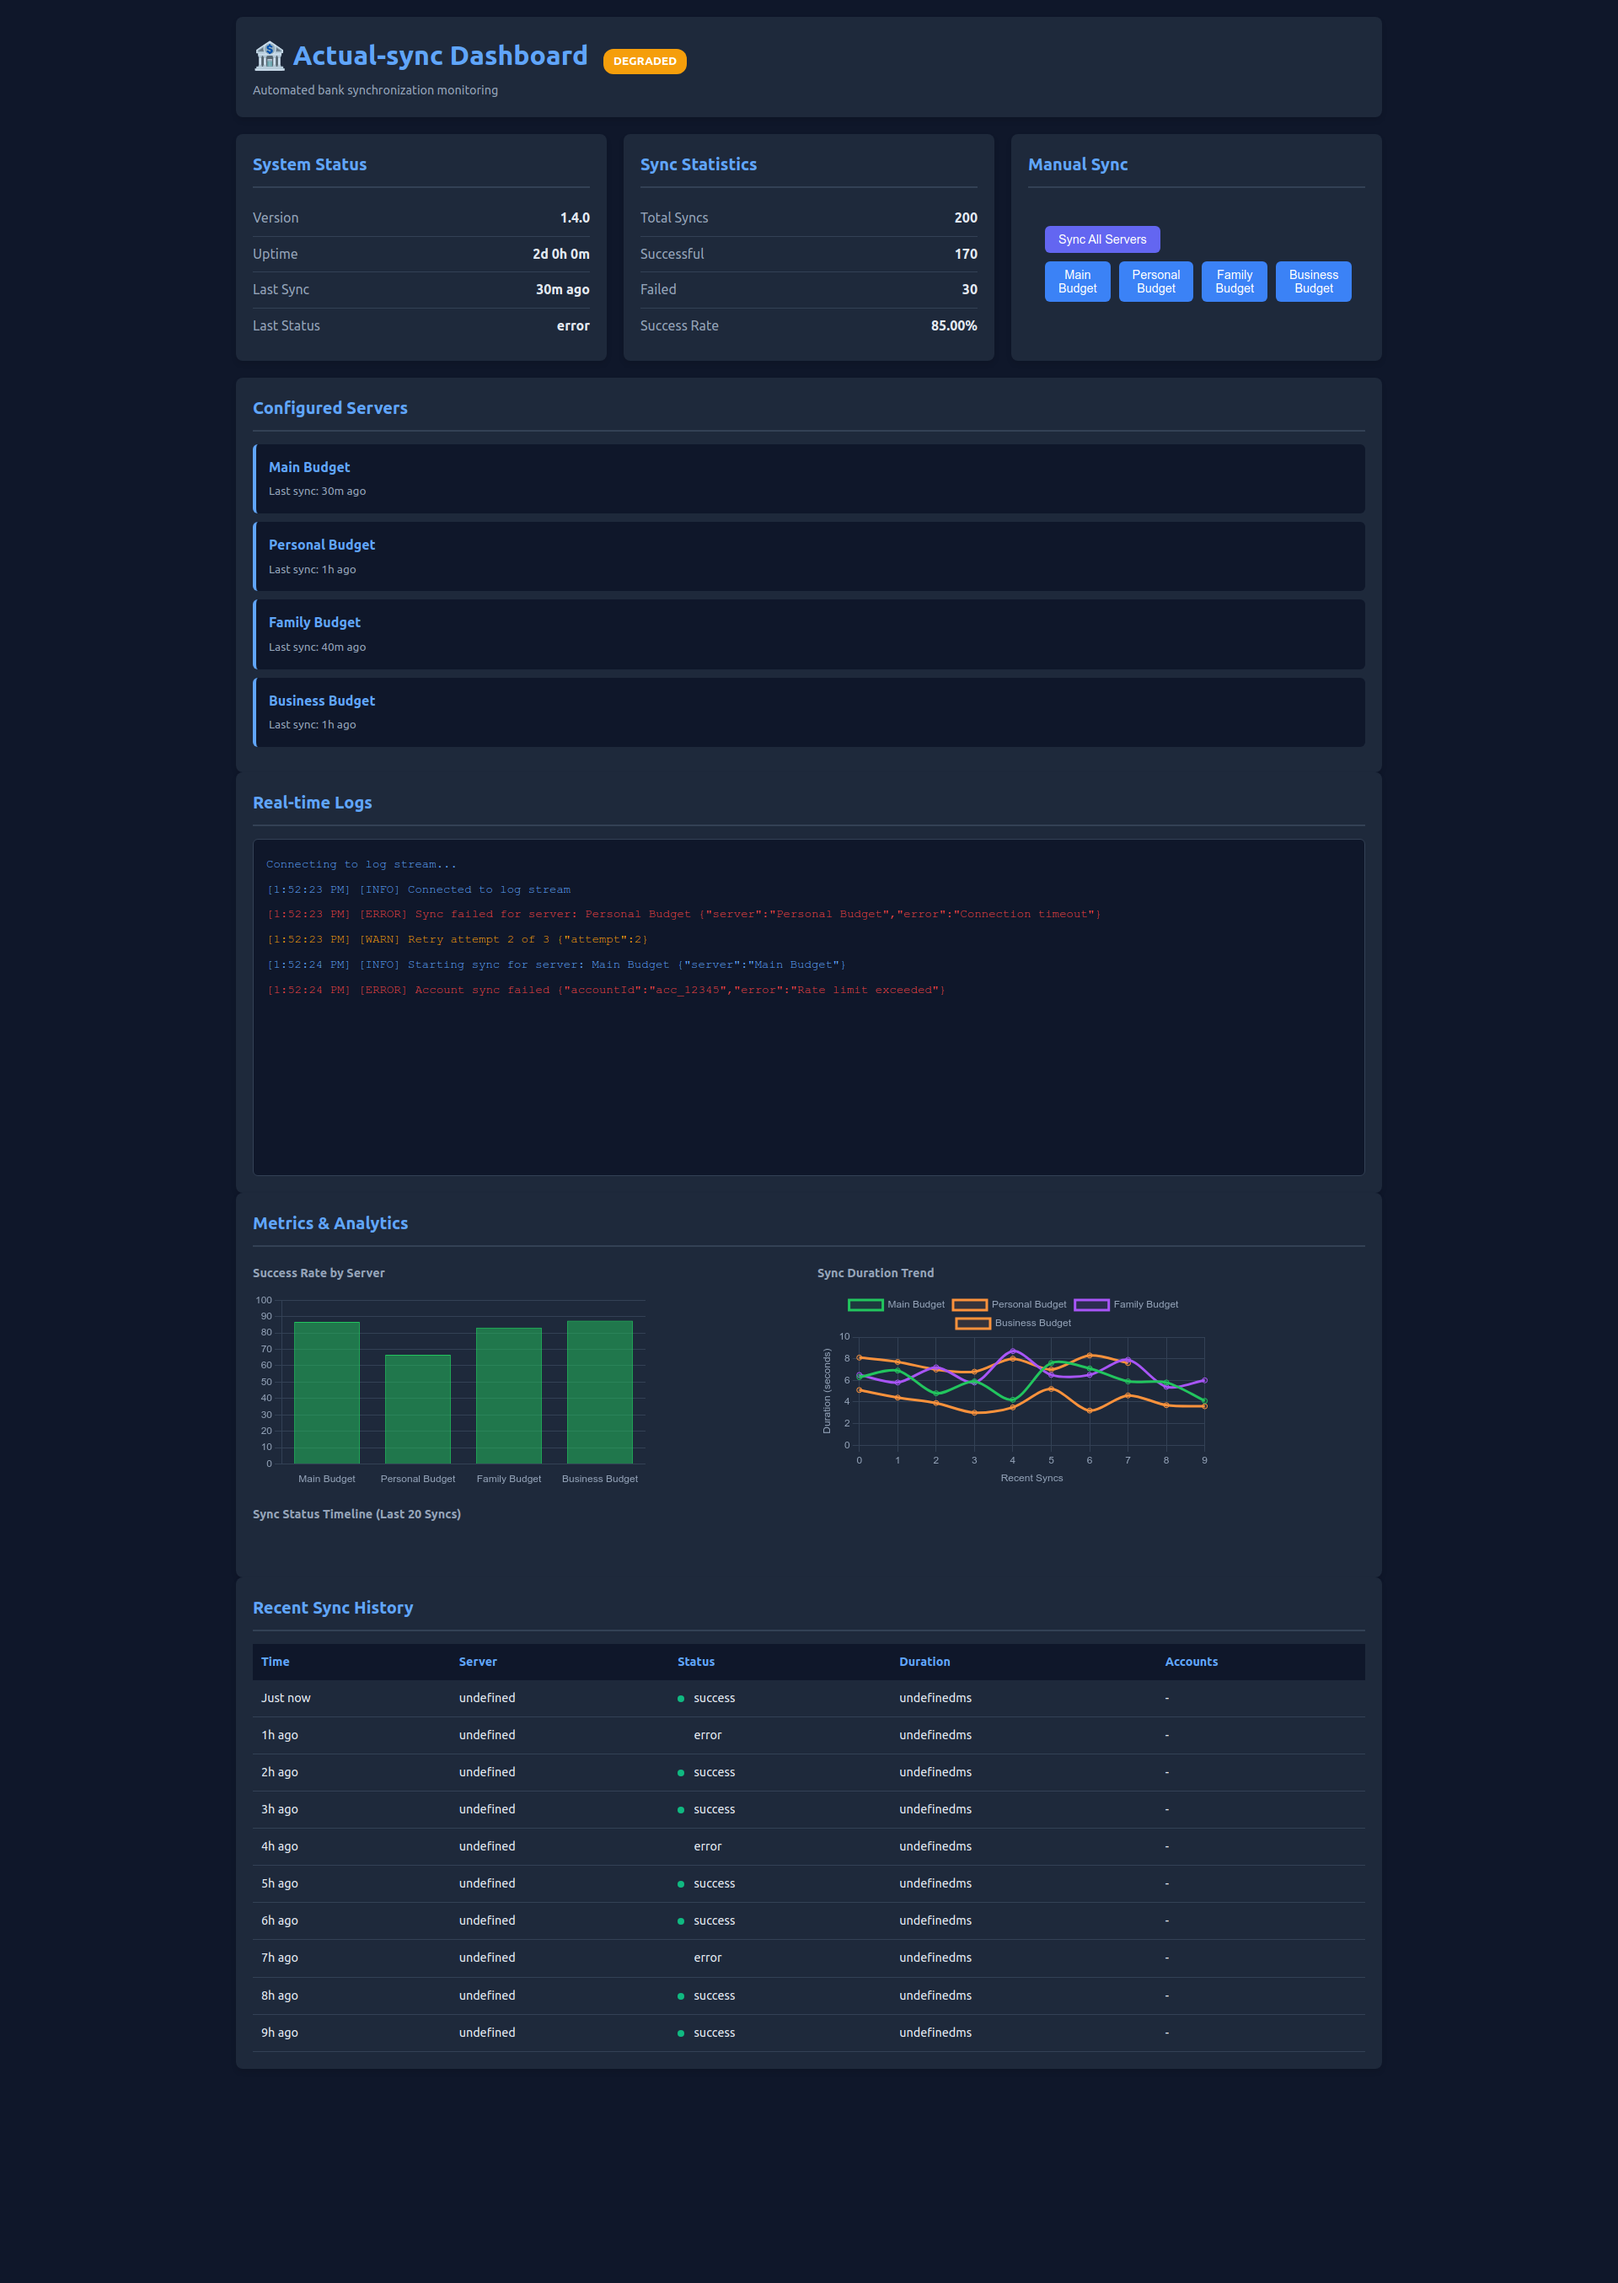
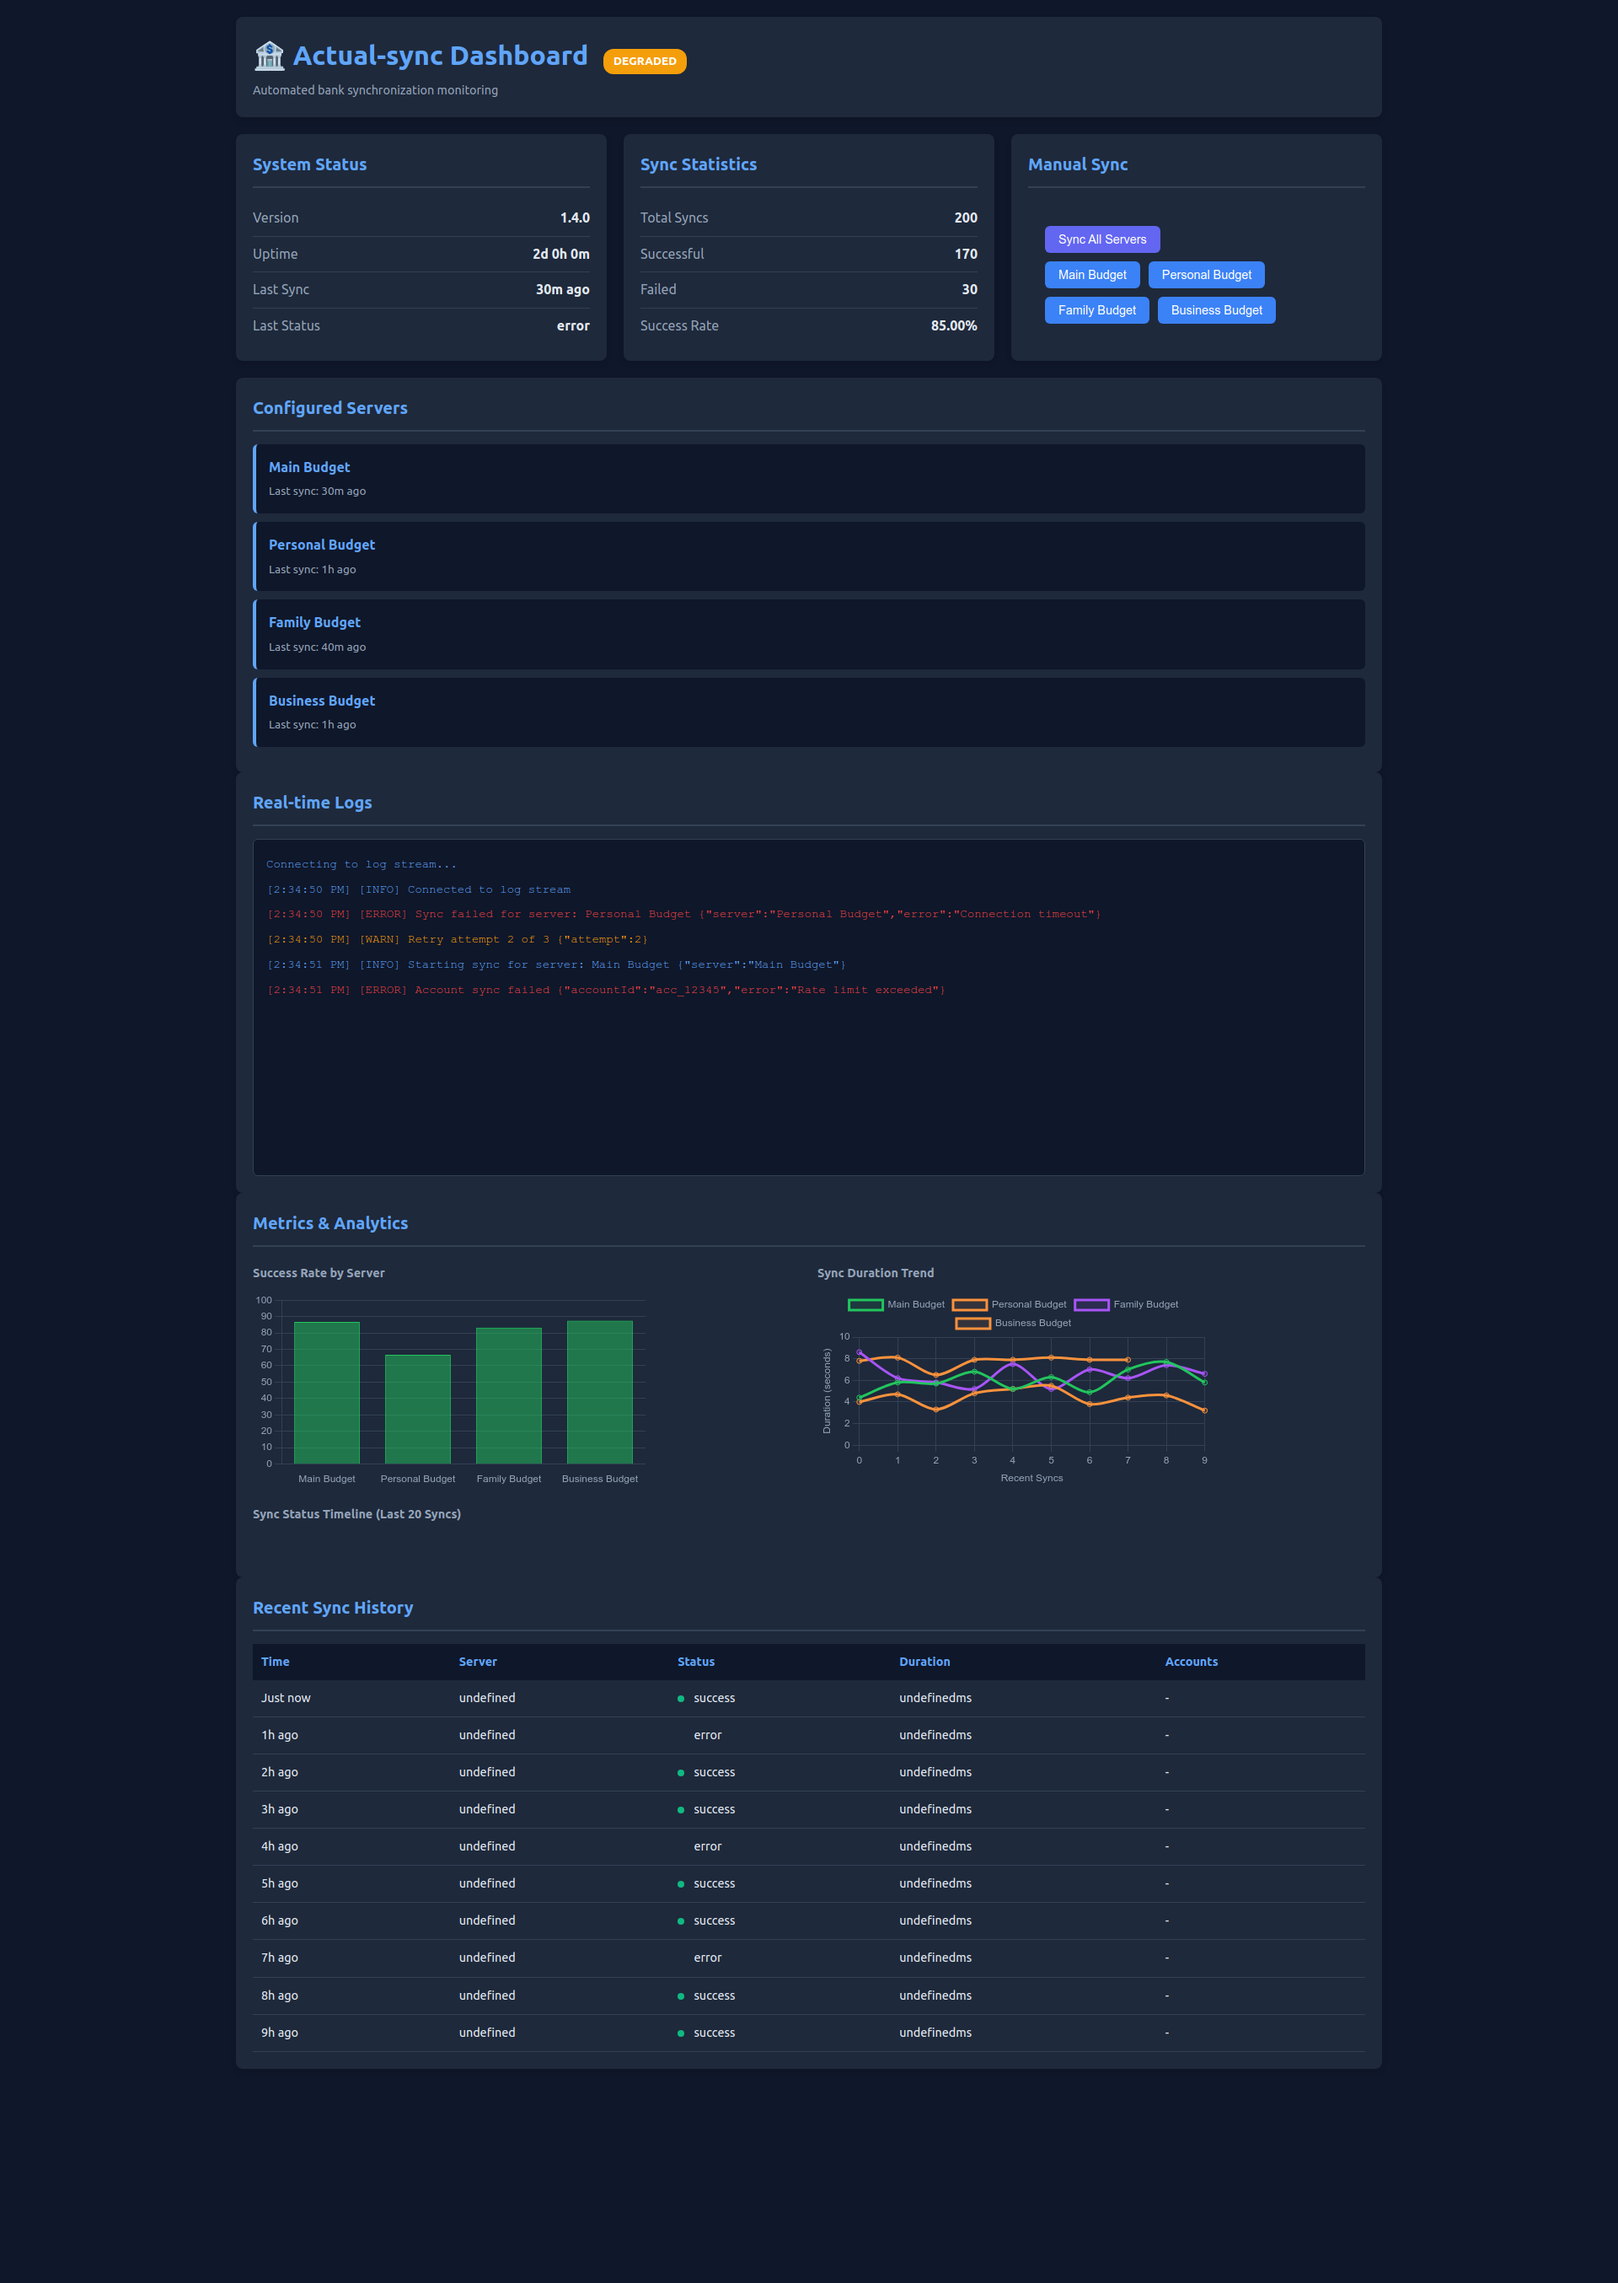
fix: Update support link and fix dashboard button wrapping
- Changed support link from ko-fi.com to buymeacoffee.com/agigante80
- Fixed Manual Sync buttons overflowing by adding flex-wrap to button-group
- Regenerated dashboard screenshots with fixes applied

Changed region(s): [[0.625, 0.0931, 0.8438, 0.1551], [0.5312, 0.5894, 0.75, 0.6204]]

diff --git a/src/services/dashboard.html b/src/services/dashboard.html
@@ -129,6 +129,7 @@
 
         .button-group {
             display: flex;
+            flex-wrap: wrap;
             gap: 10px;
             margin-top: 10px;
         }

diff --git a/docker/description/long.md b/docker/description/long.md
@@ -121,6 +121,6 @@ Full documentation available at:
 - 📖 Documentation: https://github.com/agigante80/Actual-sync/tree/main/docs
 - 🐛 Issues: https://github.com/agigante80/Actual-sync/issues
 - 💬 Discussions: https://github.com/agigante80/Actual-sync/discussions
-- ☕ Support: https://ko-fi.com/agigante80
+- ☕ Support: https://buymeacoffee.com/agigante80
 
 Built with ❤ for the Actual Budget community
